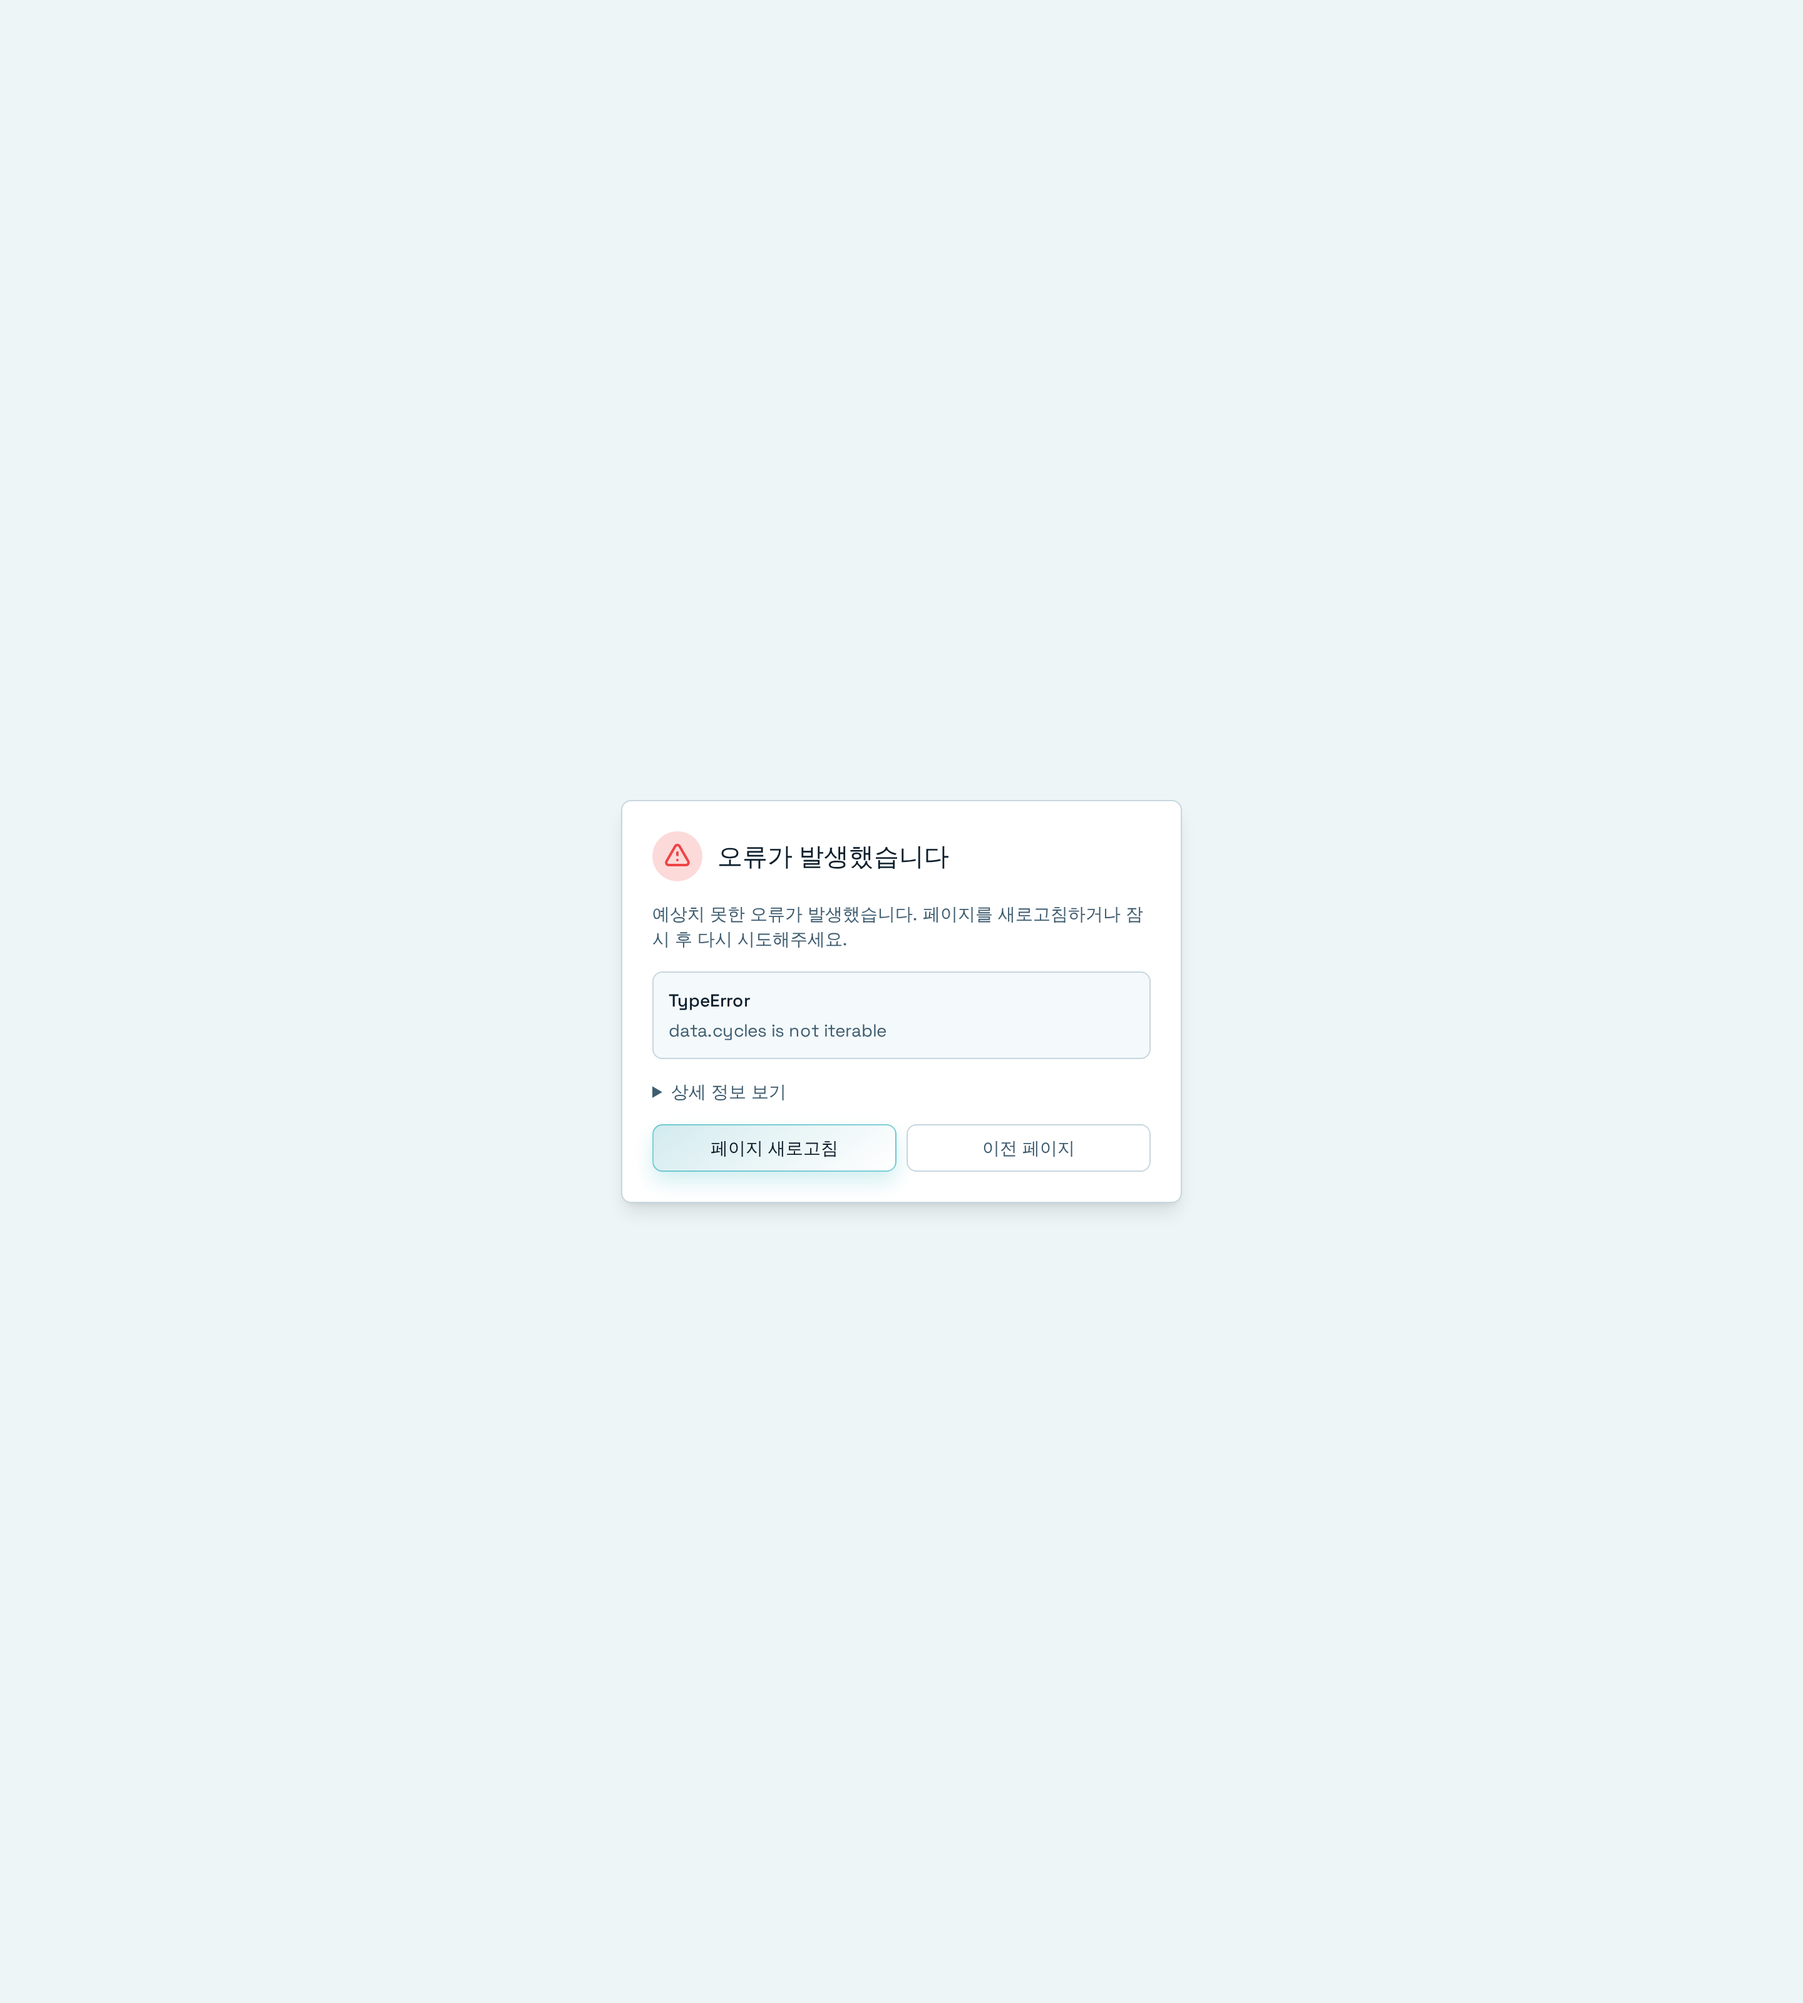
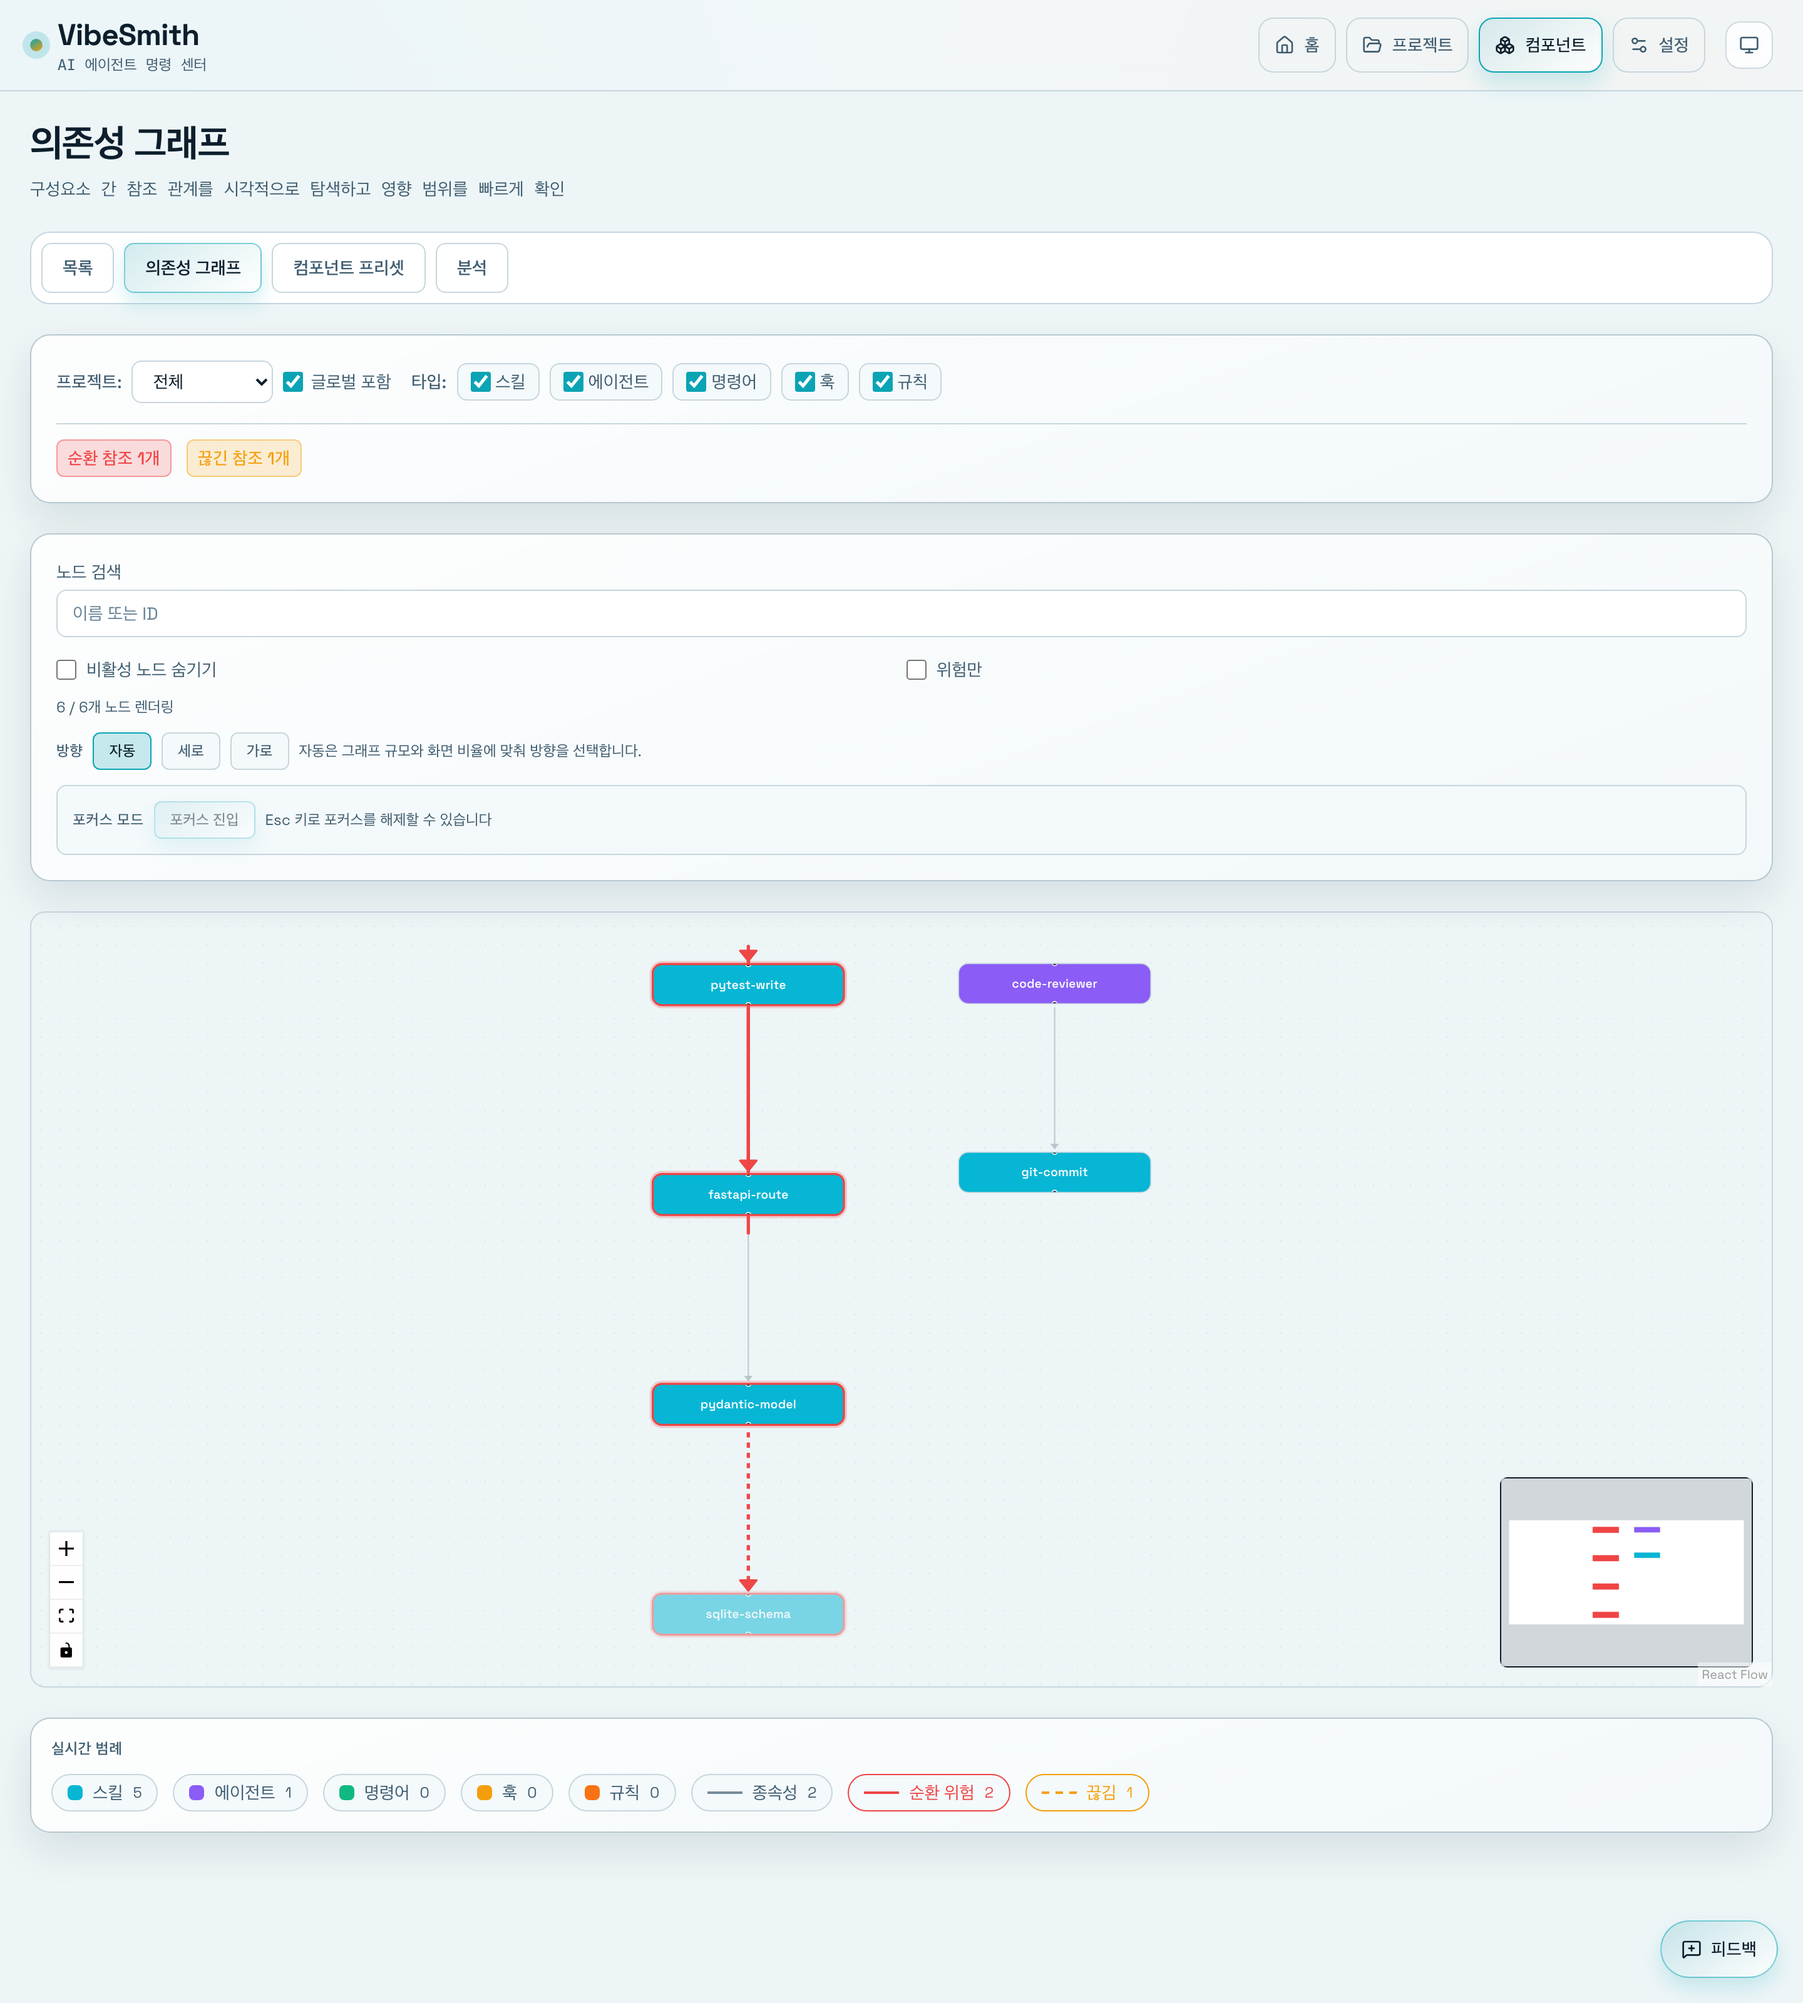
feat: refresh dependency panel media and modernize showcase UI

diff --git a/styles.css b/styles.css
@@ -448,7 +448,7 @@ body::before {
 
 .media-layout {
   display: grid;
-  gap: var(--card-gap);
+  gap: clamp(0.85rem, 1.6vw, 1.15rem);
   grid-template-columns: 1.45fr 1fr;
 }
 
@@ -468,19 +468,20 @@ body::before {
 }
 
 .proof-chip {
-  border: 1px solid var(--line);
+  border: 1px solid rgba(24, 35, 56, 0.16);
   border-radius: 999px;
-  padding: 0.32rem 0.62rem;
+  padding: 0.34rem 0.66rem;
   font-family: "IBM Plex Mono", "SFMono-Regular", Menlo, monospace;
   font-size: 0.74rem;
   letter-spacing: 0.04em;
   text-transform: uppercase;
-  background: rgba(255, 255, 255, 0.78);
+  background: linear-gradient(160deg, rgba(255, 255, 255, 0.96), rgba(242, 248, 255, 0.9));
+  box-shadow: 0 4px 12px rgba(26, 34, 52, 0.08);
 }
 
 .media-proof-grid {
   display: grid;
-  gap: var(--card-gap);
+  gap: clamp(0.85rem, 1.6vw, 1.15rem);
   grid-template-columns: repeat(2, minmax(0, 1fr));
 }
 
@@ -490,25 +491,49 @@ body::before {
 
 .media-card {
   position: relative;
-  border: 2px dashed var(--line);
-  border-radius: 17px;
-  background:
-    linear-gradient(145deg, rgba(255, 255, 255, 0.92), rgba(16, 223, 251, 0.12)),
-    repeating-linear-gradient(-45deg, rgba(16, 16, 16, 0.04) 0 10px, rgba(255, 255, 255, 0.12) 10px 20px);
-  padding: 0.95rem;
+  overflow: hidden;
+  isolation: isolate;
+  border: 1px solid rgba(22, 34, 53, 0.18);
+  border-radius: 22px;
+  background: linear-gradient(160deg, rgba(255, 255, 255, 0.95), rgba(238, 247, 255, 0.93));
+  box-shadow: 0 14px 30px rgba(13, 24, 42, 0.14);
+  padding: 1rem;
   min-height: 178px;
   display: flex;
   flex-direction: column;
   justify-content: space-between;
   gap: 0.6rem;
+  transition: transform 210ms ease, box-shadow 210ms ease, border-color 210ms ease;
+}
+
+.media-card::before {
+  content: "";
+  position: absolute;
+  inset: 0;
+  z-index: 0;
+  pointer-events: none;
+  background:
+    radial-gradient(65rem 45rem at 110% -25%, rgba(122, 234, 255, 0.18), transparent 58%),
+    radial-gradient(50rem 42rem at -15% 120%, rgba(255, 117, 214, 0.13), transparent 52%);
+}
+
+.media-card > * {
+  position: relative;
+  z-index: 1;
+}
+
+.media-card:hover {
+  transform: translateY(-2px);
+  border-color: rgba(22, 34, 53, 0.28);
+  box-shadow: 0 18px 34px rgba(13, 24, 42, 0.2);
 }
 
 .media-card-hero {
-  min-height: 304px;
+  min-height: 338px;
 }
 
 .media-card-short {
-  min-height: 130px;
+  min-height: 160px;
 }
 
 .media-placeholder {
@@ -524,10 +549,10 @@ body::before {
   letter-spacing: 0.1em;
   font-size: 0.7rem;
   color: var(--ink-soft);
-  border: 1px solid var(--line);
+  border: 1px solid rgba(218, 232, 248, 0.44);
   border-radius: 999px;
   padding: 0.2rem 0.55rem;
-  background: rgba(255, 255, 255, 0.82);
+  background: rgba(12, 18, 30, 0.5);
 }
 
 .media-placeholder strong {
@@ -553,7 +578,8 @@ body::before {
 .media-live {
   padding: 0;
   border-style: solid;
-  background: #0d1420;
+  background:
+    linear-gradient(180deg, #0a1323 0%, #0f1d36 66%, #162a49 100%);
 }
 
 .media-visual {
@@ -565,7 +591,8 @@ body::before {
 
 .media-live .media-visual {
   object-fit: contain;
-  background: #0d1420;
+  background:
+    linear-gradient(180deg, rgba(6, 12, 24, 0.88) 0%, rgba(12, 25, 44, 0.72) 100%);
 }
 
 .media-overlay {
@@ -576,22 +603,22 @@ body::before {
   z-index: 2;
   width: fit-content;
   max-width: min(94%, 38rem);
-  padding: 0.45rem 0.56rem;
-  border-radius: 12px;
-  border: 1px solid rgba(255, 255, 255, 0.22);
-  background: rgba(10, 14, 22, 0.7);
-  backdrop-filter: blur(2px);
+  padding: 0.5rem 0.62rem;
+  border-radius: 14px;
+  border: 1px solid rgba(222, 238, 255, 0.2);
+  background: linear-gradient(145deg, rgba(8, 14, 24, 0.78), rgba(12, 24, 42, 0.58));
+  backdrop-filter: blur(6px);
 }
 
 .media-live .media-placeholder strong,
 .media-live .media-placeholder p {
-  color: #f2f6fb;
+  color: #f6fbff;
 }
 
 .media-live .media-tag {
-  color: #dbe5ef;
-  border-color: rgba(255, 255, 255, 0.34);
-  background: rgba(255, 255, 255, 0.06);
+  color: #dceaf8;
+  border-color: rgba(216, 233, 250, 0.45);
+  background: rgba(227, 239, 252, 0.1);
 }
 
 .media-live figcaption {
@@ -600,13 +627,36 @@ body::before {
   right: 0.72rem;
   bottom: 0.72rem;
   z-index: 2;
-  color: #eaf1f8;
-  background: linear-gradient(145deg, rgba(10, 14, 22, 0.86), rgba(13, 40, 60, 0.74));
-  border: 1px solid rgba(255, 255, 255, 0.2);
+  color: #eef6ff;
+  background: linear-gradient(145deg, rgba(8, 14, 25, 0.88), rgba(17, 38, 67, 0.8));
+  border: 1px solid rgba(210, 231, 250, 0.28);
   line-height: 1.4;
   font-family: "Space Grotesk", "IBM Plex Sans KR", "Noto Sans KR", sans-serif;
   font-size: 0.83rem;
-  padding: 0.46rem 0.6rem;
+  padding: 0.5rem 0.62rem;
+}
+
+.section-media {
+  position: relative;
+  overflow: hidden;
+  background:
+    linear-gradient(165deg, rgba(255, 255, 255, 0.97), rgba(245, 251, 255, 0.9));
+}
+
+.section-media::before {
+  content: "";
+  position: absolute;
+  inset: 0;
+  z-index: 0;
+  pointer-events: none;
+  background:
+    radial-gradient(34rem 20rem at 105% -15%, rgba(79, 238, 255, 0.13), transparent 62%),
+    radial-gradient(26rem 17rem at -5% 108%, rgba(255, 140, 204, 0.1), transparent 60%);
+}
+
+.section-media > * {
+  position: relative;
+  z-index: 1;
 }
 
 .status-pill {

diff --git a/projects/vibesmith/index.html b/projects/vibesmith/index.html
@@ -140,7 +140,7 @@
         </div>
       </section>
 
-      <section id="demo" class="section reveal" data-reveal>
+      <section id="demo" class="section section-media reveal" data-reveal>
         <div class="section-head">
           <p class="section-eyebrow" data-i18n="vibe_media_eyebrow">Visual Proof</p>
           <h2 data-i18n="vibe_media_title">Product interface walkthrough</h2>

diff --git a/index.html b/index.html
@@ -122,7 +122,7 @@
         </div>
       </section>
 
-      <section class="section reveal" data-reveal>
+      <section class="section section-media reveal" data-reveal>
         <div class="section-head">
           <p class="section-eyebrow" data-i18n="home_media_eyebrow">Product Preview</p>
           <h2 data-i18n="media_home_title">Product interface preview</h2>
